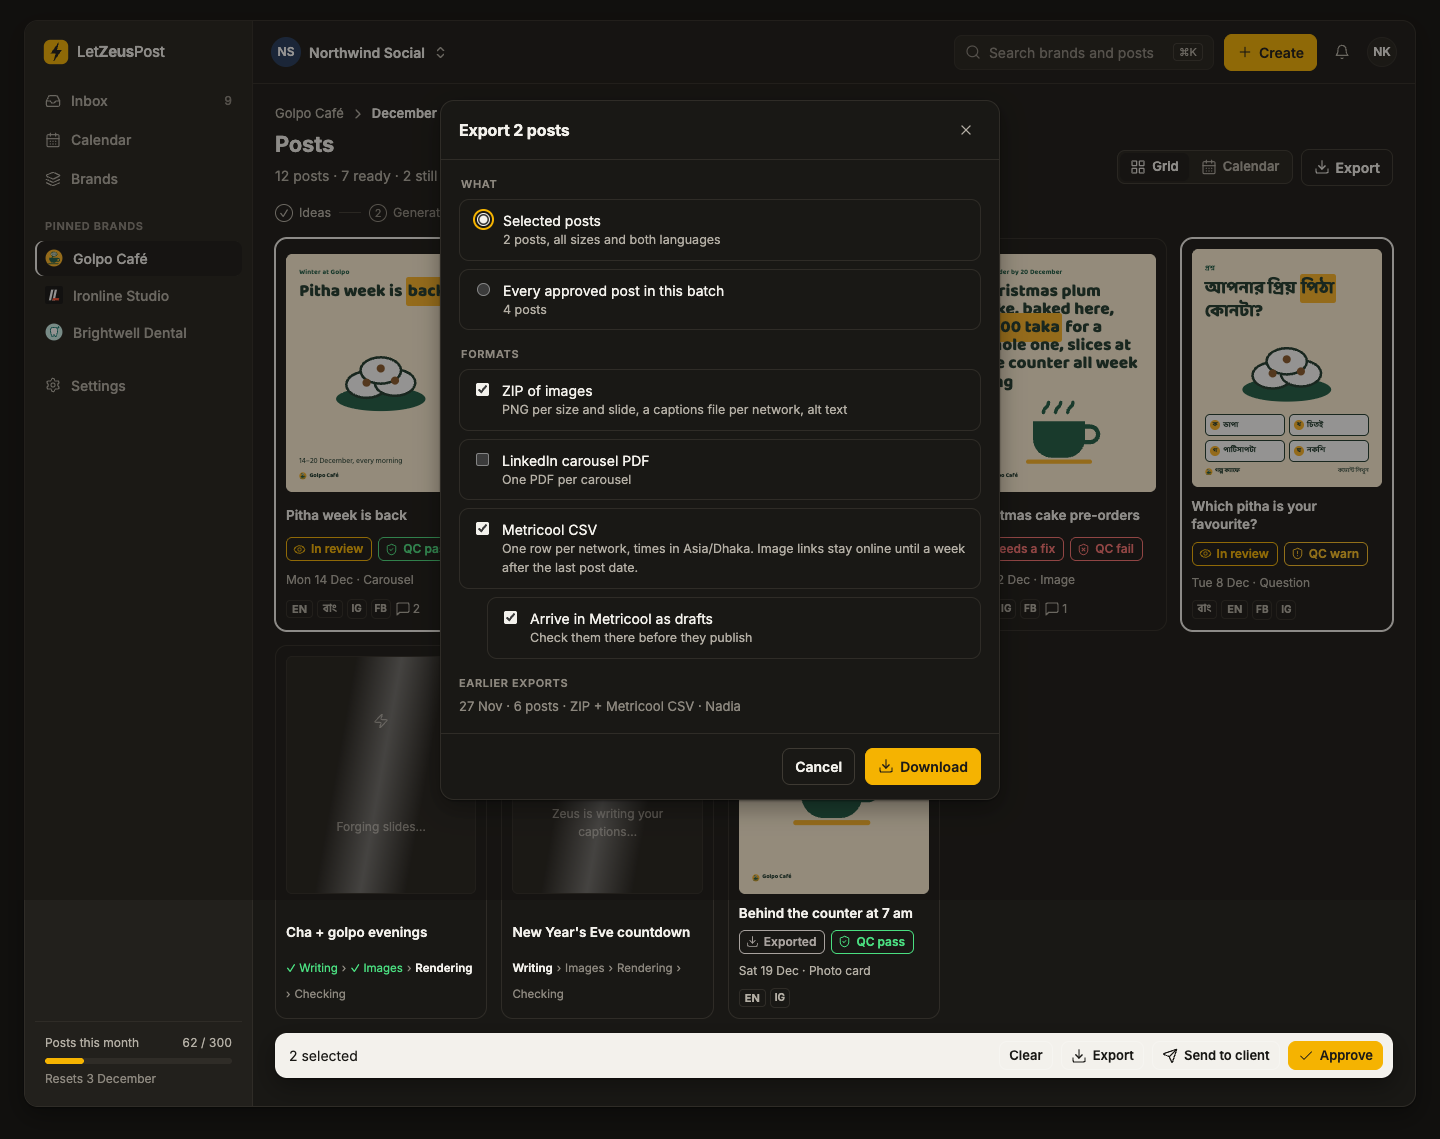
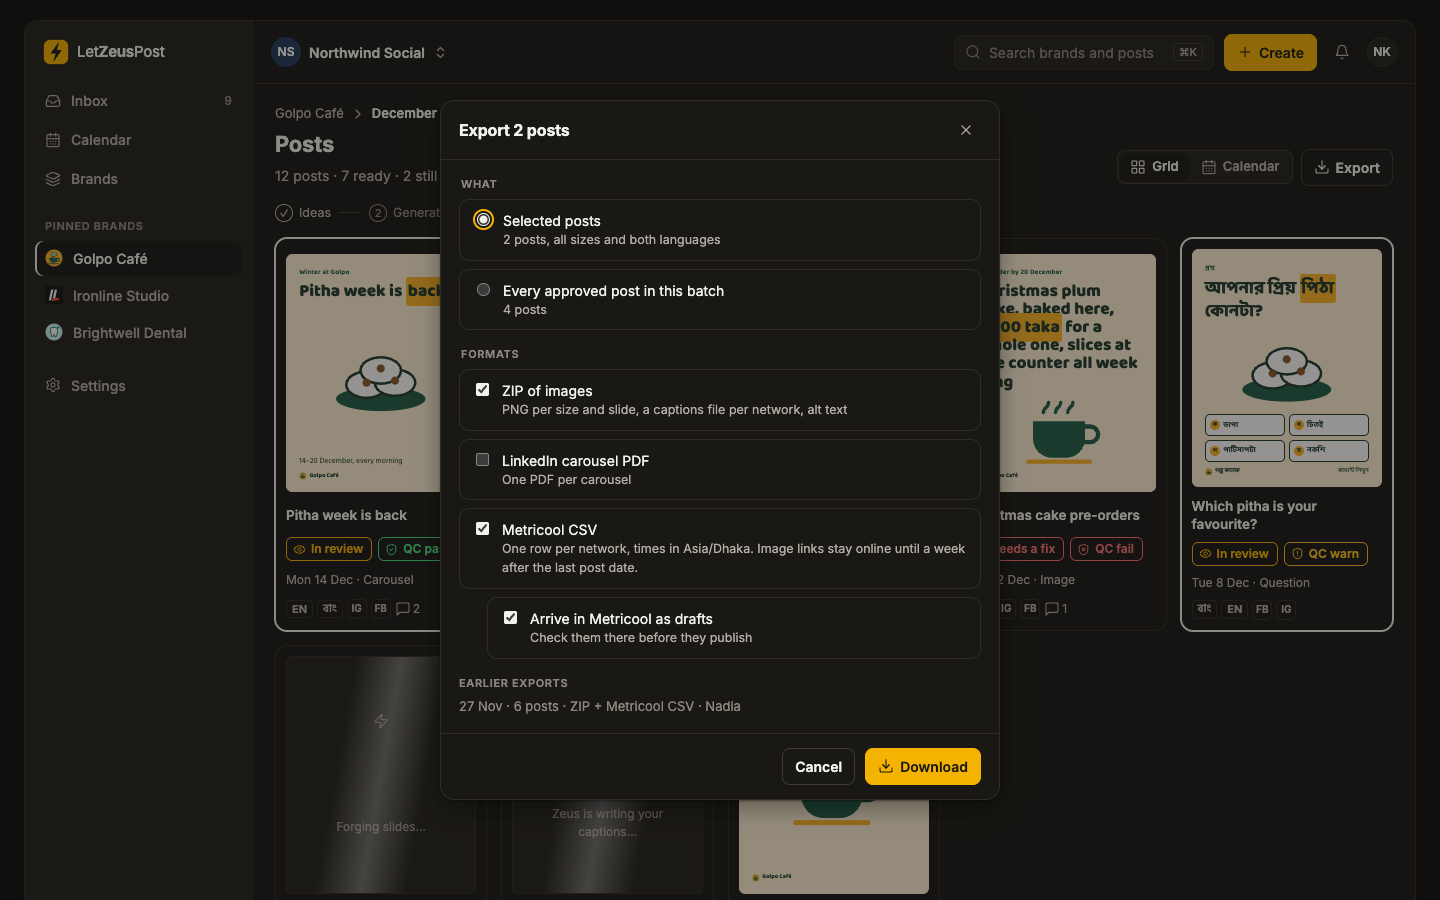
fix(ui): no transitions under reduced motion; the review page's change-request field at 3:1 (#70)
Iris and Argus, round 2: base.css sets the default transition to 0ms under reduced motion; the mockup's `.rv-cr
textarea` gets the input border too. The export dialog is retaken at viewport height (its backdrop stopped at
900 px in the full-page capture). The README notes the off switch's 1.5:1 track as needs-zeus for the switch
component.

diff --git a/packages/ui/src/tokens/base.css b/packages/ui/src/tokens/base.css
@@ -1,8 +1,8 @@
 /*
  * Design values DESIGN.md's format can't carry into its export (#70), written by hand: the interface font stack (the
  * export names Inter alone), line heights and tabular numbers (the export drops them), the frame shadow and the
- * transition time (the format only describes them in prose). base.test.ts checks each against the approved mockup's
- * CSS and DESIGN.md. Changing one is a design change: Zeus approves it first (§21).
+ * transition time, none under reduced motion (the format only describes them in prose). base.test.ts checks each
+ * against the approved mockup's CSS and DESIGN.md. Changing one is a design change: Zeus approves it first (§21).
  */
 @theme {
   --font-sans: 'Inter', ui-sans-serif, system-ui, -apple-system, 'Segoe UI', sans-serif;
@@ -15,4 +15,10 @@
 
 .dark {
   --shadow-frame: 0 1px 2px rgba(0, 0, 0, 0.4), 0 8px 24px rgba(0, 0, 0, 0.35);
+}
+
+@media (prefers-reduced-motion: reduce) {
+  :root {
+    --default-transition-duration: 0ms;
+  }
 }

diff --git a/docs/design/mockups/v1/index.html b/docs/design/mockups/v1/index.html
@@ -298,7 +298,7 @@ table.t tr.cur td { background: var(--surface-2); }
 .rv-hello { margin: 12px; padding: 12px; border-radius: 12px; background: #FFF8E1; border: 1px solid #F3D78A; display: grid; gap: 8px; font-size: 13px; }
 .rv-hello input { border: 1px solid #8A857D; border-radius: 8px; padding: 8px; background: #fff; color: #1C1A17; }
 .rv-cr { padding: 0 12px 12px; display: grid; gap: 8px; }
-.rv-cr textarea { border: 1px solid #D3D0C9; border-radius: 8px; padding: 8px; min-height: 64px; background: #fff; color: #1C1A17; }
+.rv-cr textarea { border: 1px solid #8A857D; border-radius: 8px; padding: 8px; min-height: 64px; background: #fff; color: #1C1A17; }
 
 /* welcome */
 .welcome { max-width: 860px; margin: 0 auto; display: grid; gap: 22px; padding: 10px 0 20px; }

diff --git a/docs/design/mockups/README.md b/docs/design/mockups/README.md
@@ -13,8 +13,9 @@ add screenshots of each screen next to it.
 
 `v1/screens/` holds every screen in the mockup's screen list, light and dark: `<nn>-<screen>-<theme>.png`, numbered
 in the list's order. They were taken on 2026-11-08 (#70) with Playwright in Chrome at 1440 × 900, full page, reduced
-motion, with the mockup's own bar (screen picker, theme switch) hidden. `12-review-390-light.png` is the client
-review page at phone width (390 px), full length, with the phone's inner scroll opened up.
+motion, with the mockup's own bar (screen picker, theme switch) hidden. The export dialog (`11-export-*.png`) is taken
+at viewport height, since its backdrop covers the viewport only. `12-review-390-light.png` is the client review page
+at phone width (390 px), full length, with the phone's inner scroll opened up.
 
 ## Changes since v1.13 was approved
 
@@ -22,14 +23,19 @@ Zeus approved each of these on 2026-11-08 (#70). They are in the source, the scr
 the record; the published page stays at v1.13 as first approved (Zeus, 2026-11-08):
 - **Faint grey** (`--faint`) darkened so it passes WCAG AA as text: light `#8E8A82` → `#6F6A62`, dark `#847F76` →
   `#8C877E` ([decision](https://github.com/picasso-canvas/letzeuspost/issues/70#issuecomment-6722863139)).
-- **Input border** (new `--input`, on text fields and selects) at 3:1 for WCAG 1.4.11: light `#8A857D`, dark
+- **Input border** (new `--input`, on text fields and selects, the client review page's name and change-request
+  fields included) at 3:1 for WCAG 1.4.11: light `#8A857D`, dark
   `#706B63`, where they used `--border-strong` (`#D3D0C9` / `#3E3A33`, 1.5:1)
   ([decision](https://github.com/picasso-canvas/letzeuspost/issues/70#issuecomment-6723593363)).
 - **The client review page in dark** follows the phone's setting, with the app's tokens. The mockup draws the phone
   in light only, so it has no dark reference; Iris checks the dark version when that page is built (same decision).
 
-Known for later: the post editor's tab row cuts its last tab ("Comments") at 1440 px (`10-editor-*.png`). The
-editor's build task shortens the labels or lets the row scroll; it doesn't shrink the type (§01).
+Known for later:
+- The post editor's tab row cuts its last tab ("Comments") at 1440 px (`10-editor-*.png`). The editor's build task
+  shortens the labels or lets the row scroll; it doesn't shrink the type (§01).
+- **needs-zeus:** a switch that's off is a pale `--border-strong` track (`#D3D0C9`, about 1.5:1 on a card,
+  `15-admin-light.png`), under WCAG 1.4.11's 3:1, the gap the input border was changed for. Zeus picks its value
+  when the switch component is built; no value is chosen here.
 
 These are the approved design for reference and for Iris's review. They aren't visual-test baselines: those are
 rendered in CI and live in `tests/visual/` (§21, Q11).
